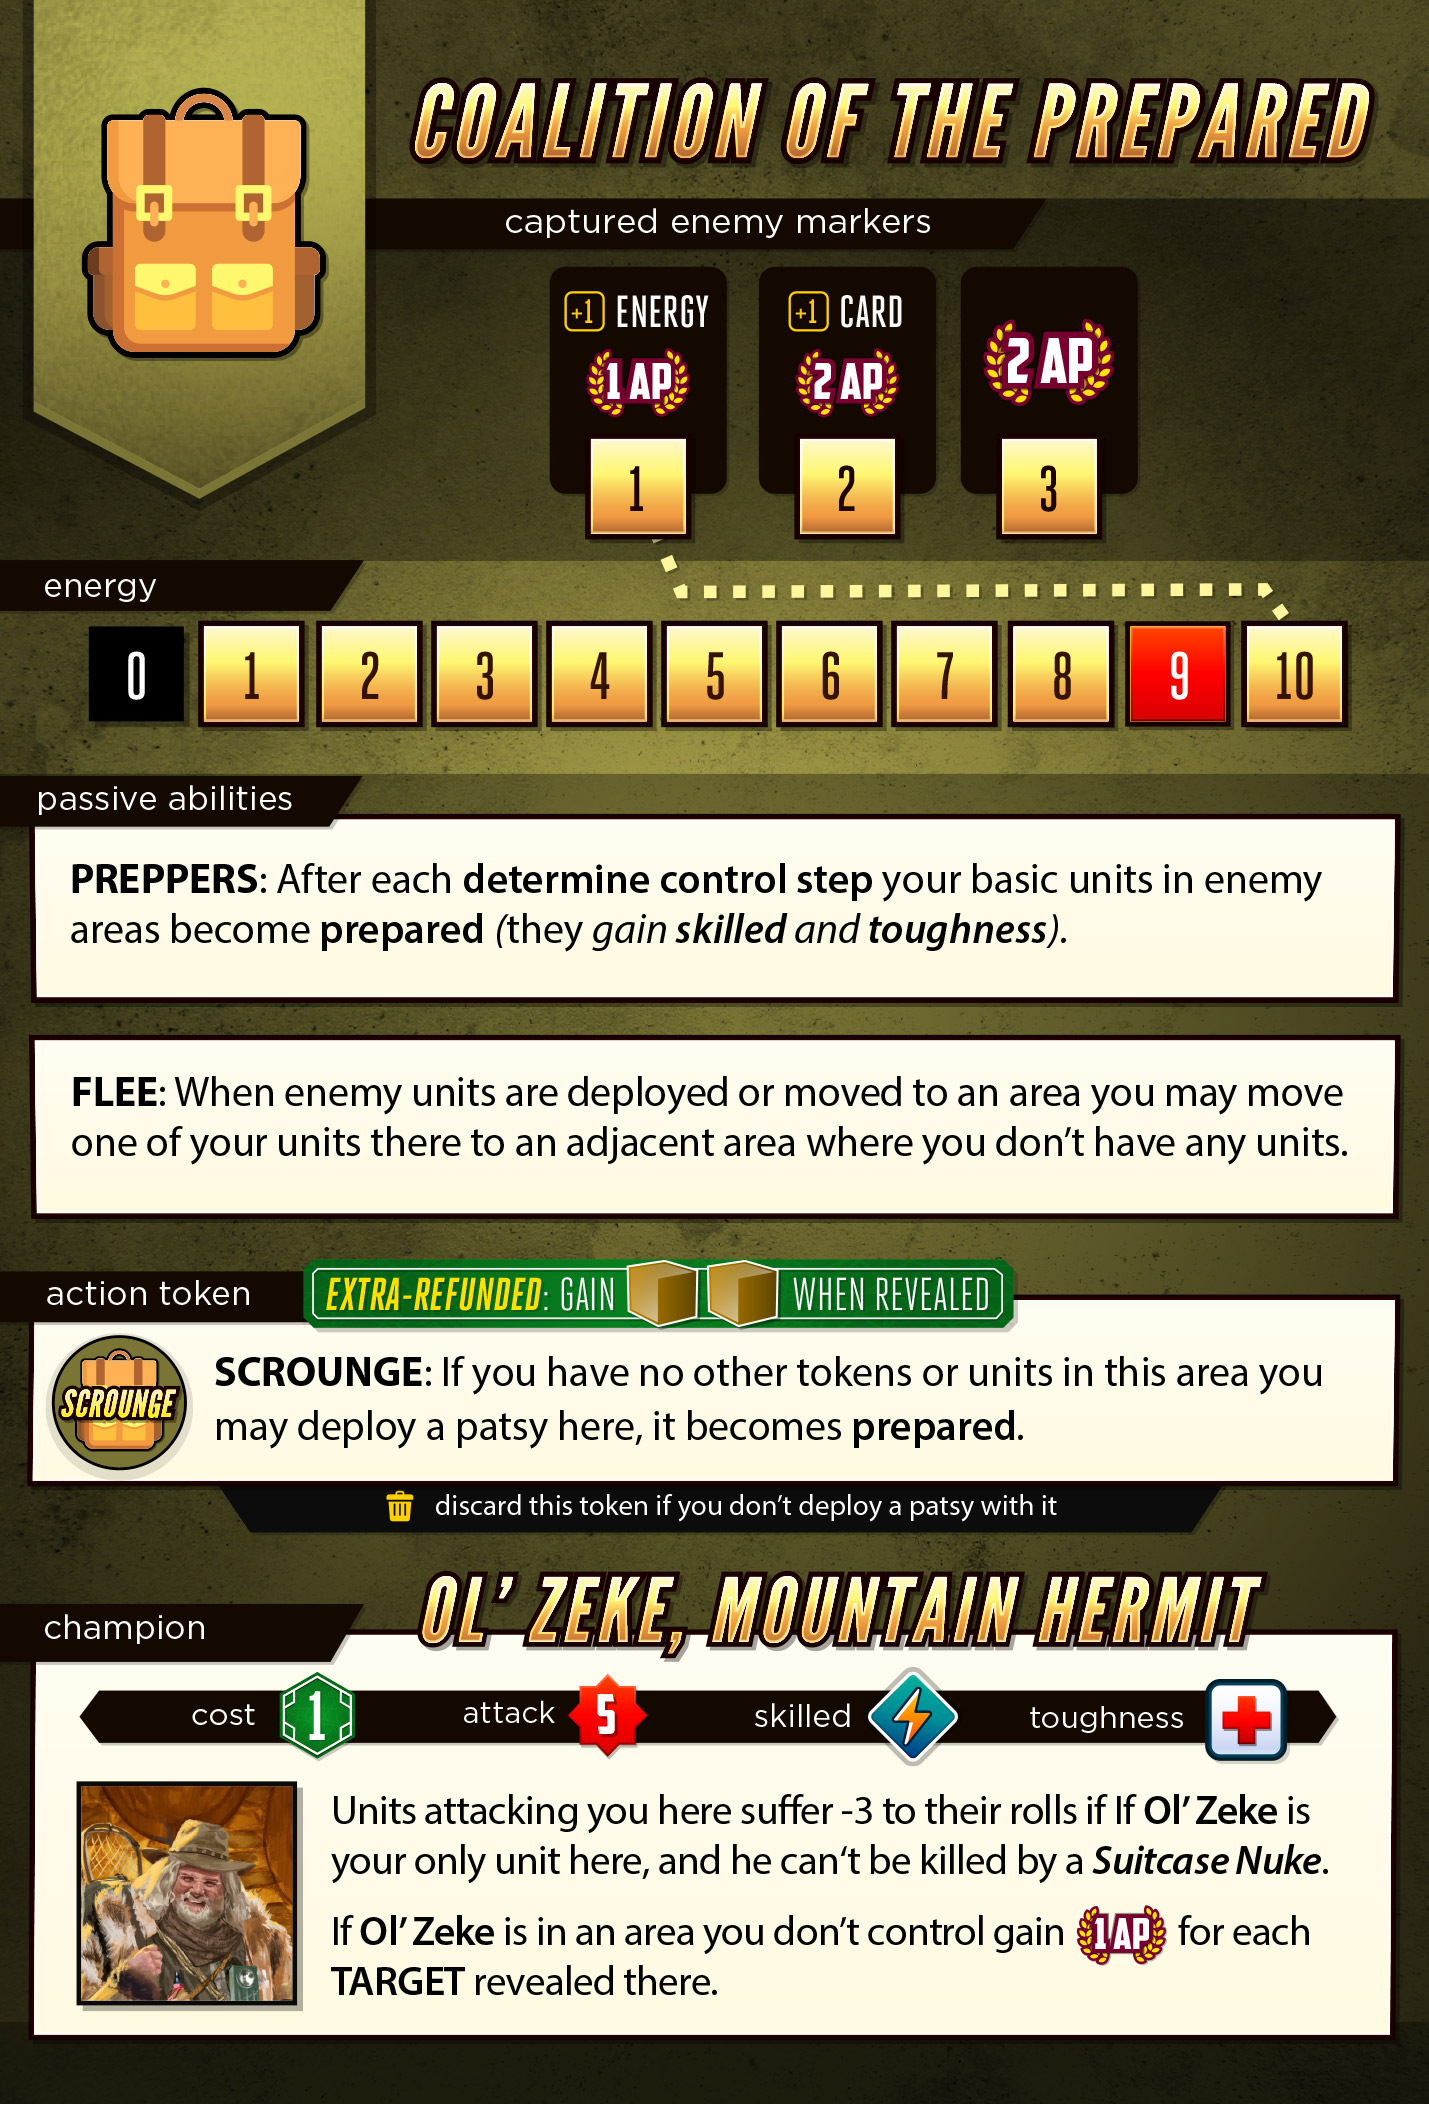
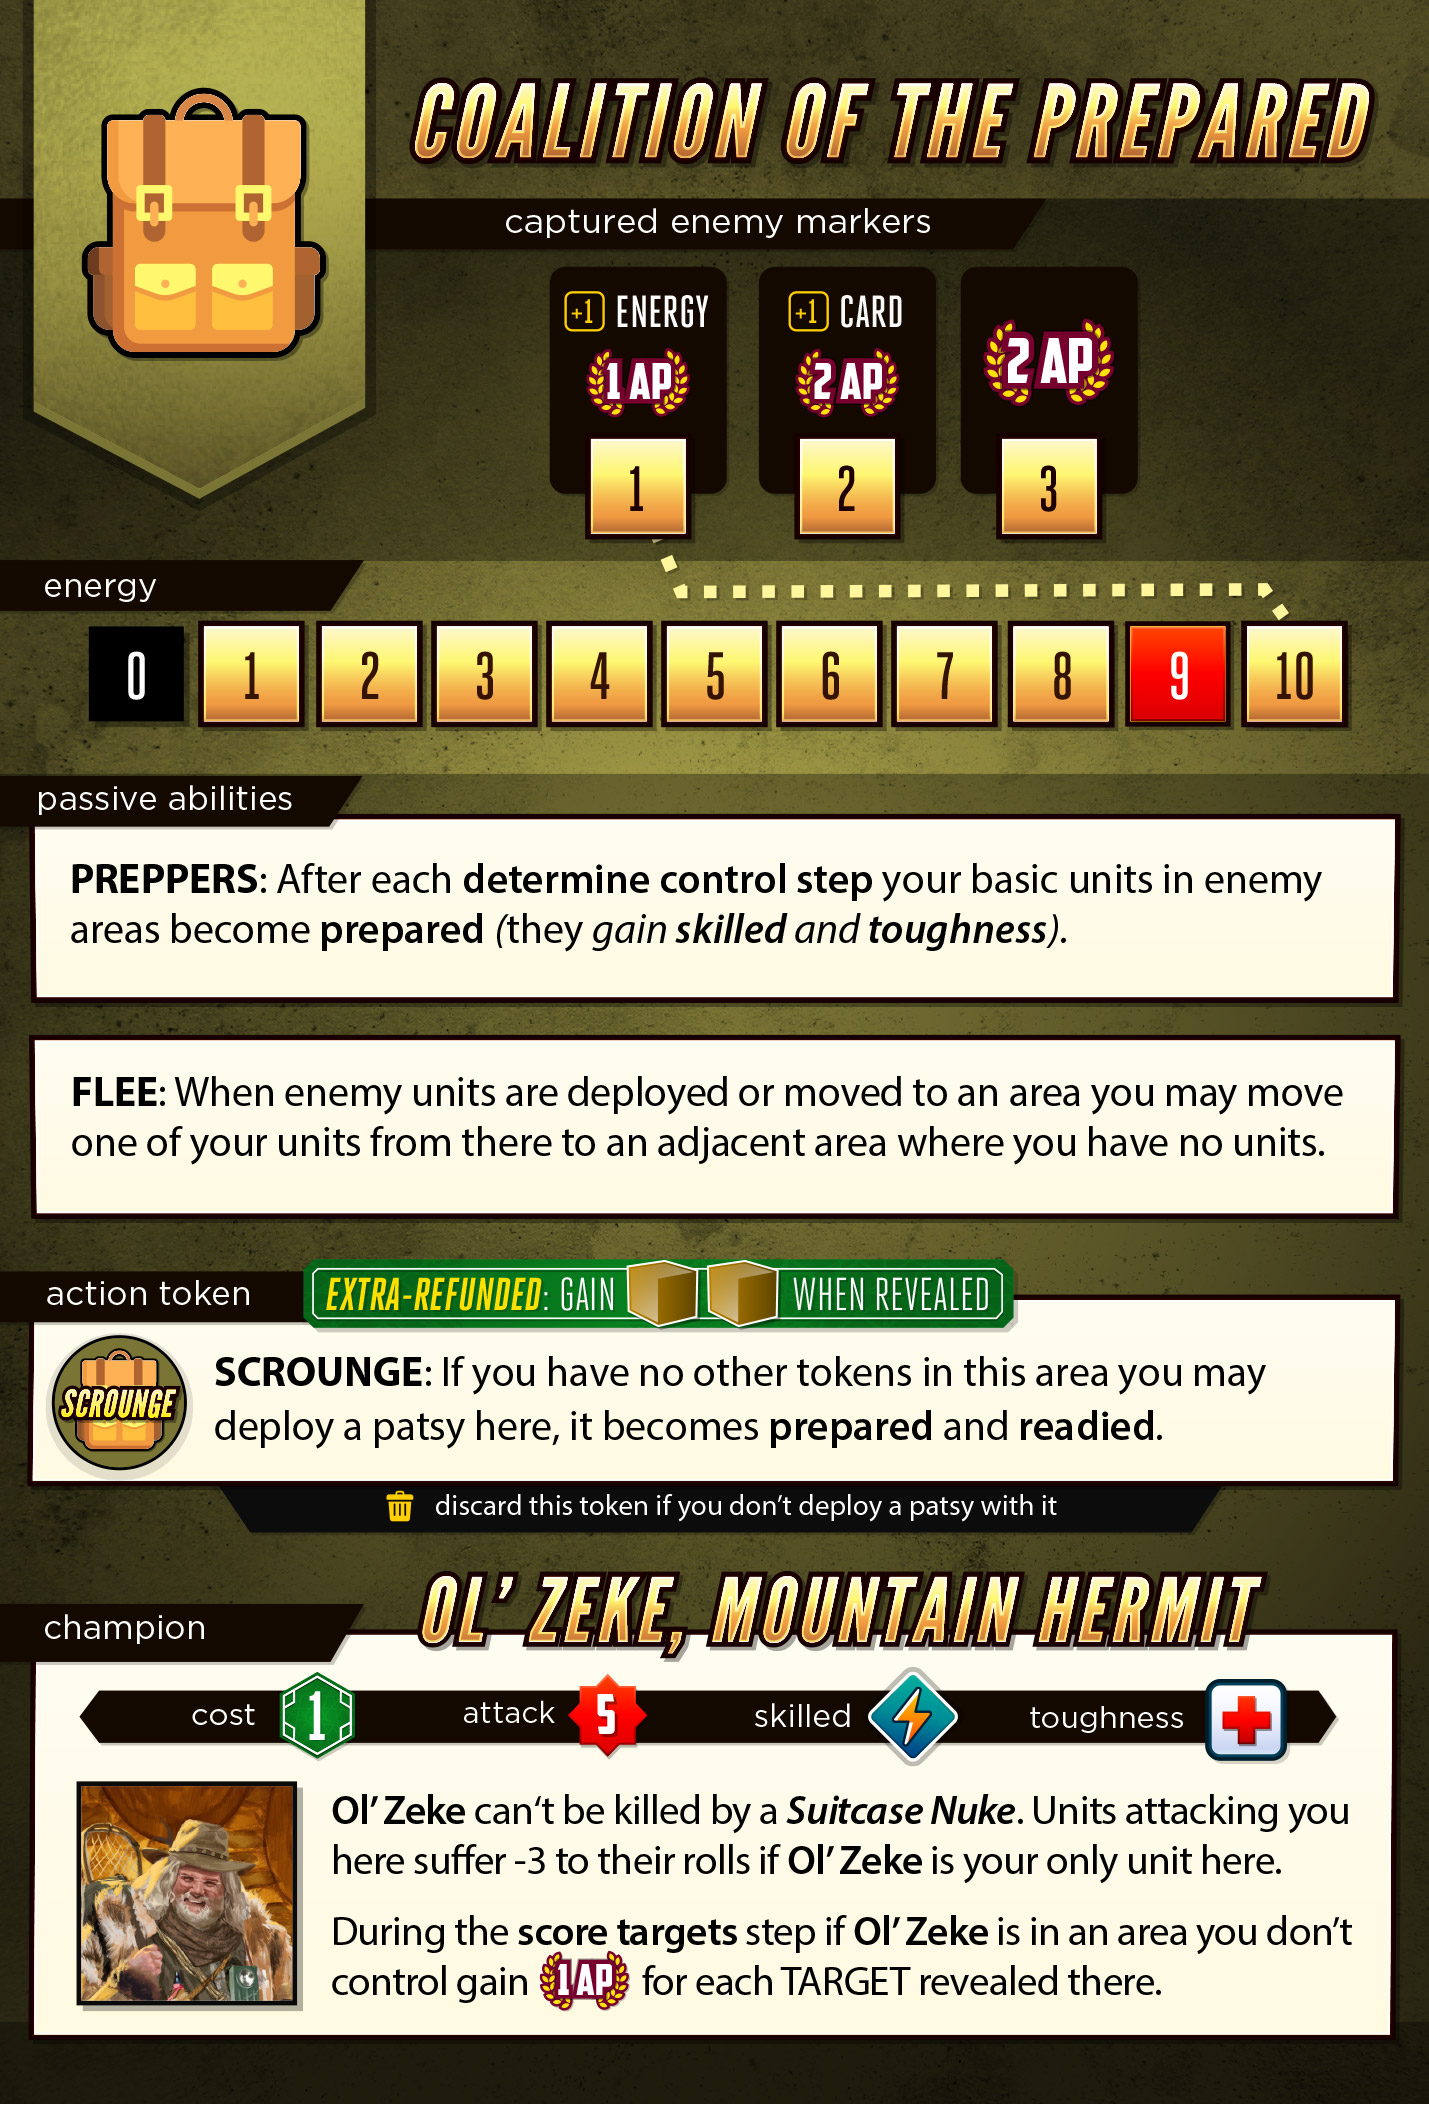
SURVIVALISTS: Minor buffs

diff --git a/server/classes/factions/Survivalists.js b/server/classes/factions/Survivalists.js
@@ -70,7 +70,7 @@ class Survivalists extends Faction {
                 type: 'scrounge',
                 cost: 0,
                 resource: 2,
-                description: "Extra Refunded (gain xRxxRx when revealed), if you have no other tokens or units here you may deploy a patsy to this area, it becomes prepared",
+                description: "Extra Refunded (gain xRxxRx when revealed), if you have no other tokens here you may deploy a patsy to this area, it becomes prepared",
                 req : "Discard this token if you do not deploy a patsy when activating it",
             }
         };
@@ -141,7 +141,8 @@ class Survivalists extends Faction {
      * @returns {boolean}
     */
     canActivateScrounge( token, area ) {
-        return !this.hasUnitsInArea( area ) && this.tokensInArea( area ).length <= 1;
+        //return !this.hasUnitsInArea( area ) && this.tokensInArea( area ).length <= 1;
+        return this.tokensInArea( area ).length <= 1;
     }
 
     /**
@@ -165,6 +166,7 @@ class Survivalists extends Faction {
         let unit = output?.units[0]?.unit;
         console.log("scrounge unit", unit);
         this.becomePrepared(unit, false);
+        unit.ready = true;
 
         this.game().advancePlayer();
     }

diff --git a/server/classes/factions/Skeletons.js b/server/classes/factions/Skeletons.js
@@ -145,6 +145,7 @@ class Skeletons extends Faction {
             options.typeIn = unitTypesInReserves;
 
             faction.data.units.forEach( unit => {
+                console.log('options', options);
                 if( !_.isValidUnit( unit, options ) ) {
                     console.log('options', options);
                     //console.log('not a valid unit to skeletonize', unit);
